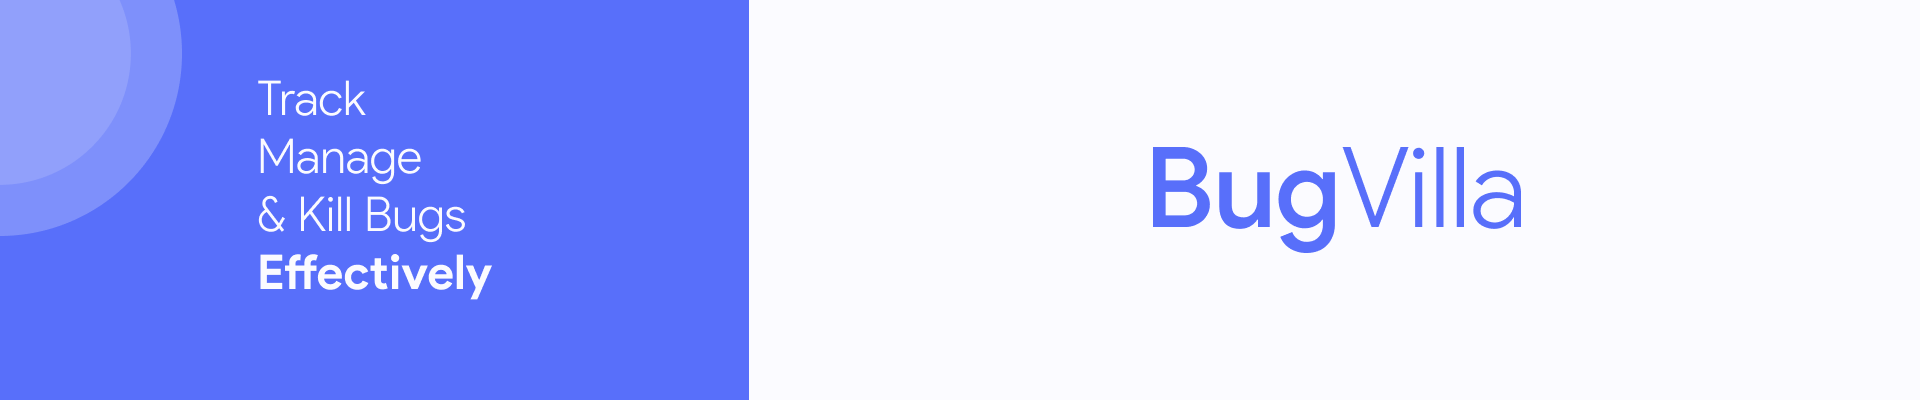
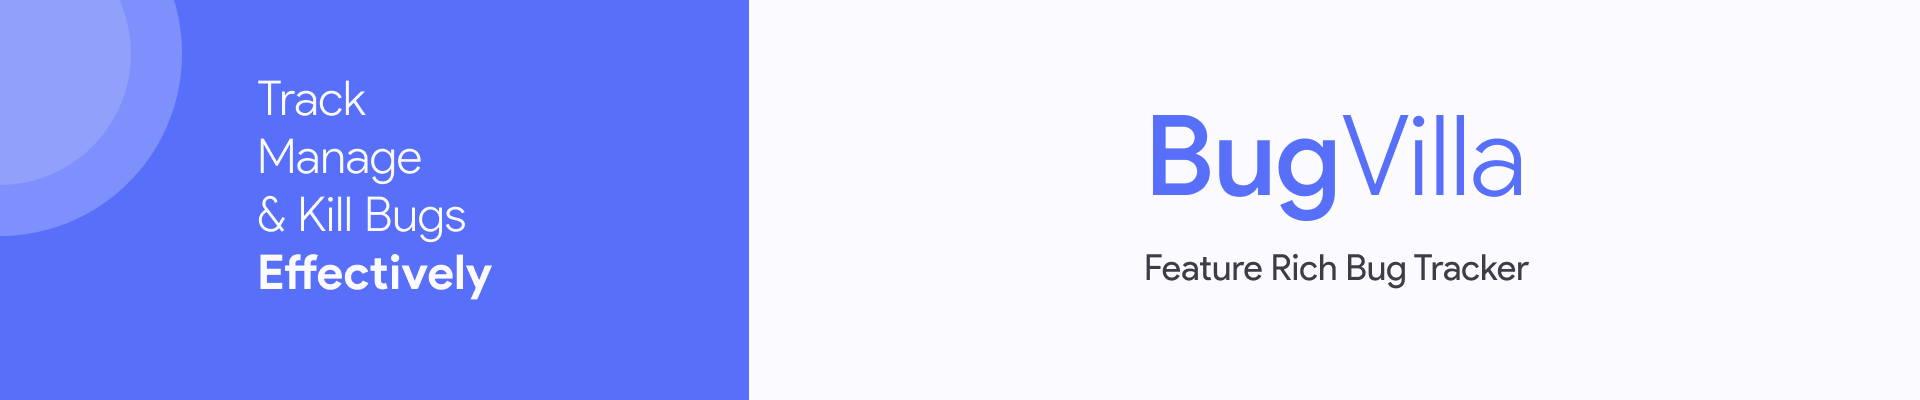
chore: updated docs

Changed region(s): [[0.5938, 0.27, 0.8125, 0.72]]

diff --git a/readme.md b/readme.md
@@ -1,21 +1,29 @@
 <br />
 <p align="center">
   <a href="https://bugvilla.herokuapp.com">
-  <img src="./assets/banner.png" alt="BugVilla Logo" width="100%">
+    <img src="./client/src/assets/images/BugVilla.png" alt="BugVilla Logo" width="200" height="57">
   </a>
 
-  <h3 align="center">Feature Rich Bug Tracker</h3>
+  <h3 align="center">Track, Manage & Kill Bugs Effectively</h3>
+
+  <p align="center">
+    <img alt="GitHub" src="https://img.shields.io/github/license/anuraghazra/BugVilla" />
+    <img alt="Travis (.com)" src="https://img.shields.io/travis/com/anuraghazra/BugVilla" />
+    <img alt="Twitter Follow" src="https://img.shields.io/twitter/follow/anuraghazru?style=social" />
+  </p>
 
   <p align="center">
     <a href="https://bugvilla.herokuapp.com">View Demo</a>
     ·
-    <a href="https://github.com/othneildrew/Best-README-Template/issues">Report Bug</a>
+    <a href="https://github.com/anuraghazra/BugVilla/issues">Report Bug</a>
     ·
-    <a href="https://github.com/othneildrew/Best-README-Template/issues">Request Feature</a>
+    <a href="https://github.com/anuraghazra/BugVilla/issues">Request Feature</a>
   </p>
 </p>
 
-## Features
+<p align="center">Universal bug tracker for everyone! BugVilla allows team members to collaborate, discuss and kill bugs effectively.</p>
+
+## ✨ Features
 
 - Issue discussions
 - Comment Reactions
@@ -32,3 +40,92 @@
 | -------- | -------------------------------------------------------------------------------------------------- | ------------------------------------------------------------------------------------------------- | ------------------------------------------------------------------------------------------------ | ---------------------------------------------------------------------------------------------------------------- | --------------------------------------------------------------------------------------------------- |
 | FrontEnd | <p align="center"><img src="./assets/reactjs_logo.png" width="100" height="100"> <br />Reactjs</p> | <p align="center"><img src="./assets/ts_logo.png" width="100" height="100"> <br />Typescript</p>  | <p align="center"><img src="./assets/redux_logo.png" width="100" height="100"> <br />Redux</p>   | <p align="center"><img src="./assets/styledcompo_logo.png" width="100" height="100"> <br />Styled Components</p> | <p align="center"><img src="./assets/cy_logo.png" width="100" height="100"> <br />Cypress</p>       |
 | BackEnd  | <p align="center"><img src="./assets/nodejs_logo.png" width="100" height="100"> <br />Nodejs</p>   | <p align="center"><img src="./assets/mongo_logo2.png" width="100" height="100"> <br />MongoDB</p> | <p align="center"><img src="./assets/heroku_logo.png" width="100" height="100"> <br />Heroku</p> | <p align="center"><img src="./assets/express_logo.png" width="100" height="100"> <br />Express</p>               | <p align="center"><img src="./assets/socket_logo.png" width="100" height="100"> <br />Socket.io</p> |
+
+
+## :rocket: Quick start
+
+Start developing locally.
+
+### Step 1: Clone the repo
+Fork the repository. then clone the repo locally by doing -
+
+```sh
+git clone https://github.com/anuraghazra/BugVilla.git
+```
+
+### Step 2: Install Dependencies
+cd into the directory
+
+```sh
+cd BugVilla
+```
+
+In the root folder do npm install.
+```sh
+npm install
+# also in client
+cd client & npm install
+```
+
+### Step 3: Setup .env
+To run the server you will also need to provide the `.env` variables
+
+- create a new file .env in the root
+- open [.env.EXAMPLE](./.env.EXAMPLE)
+- copy the contents and paste it to the .env with valid keys
+
+#### And you are good to go
+```sh
+npm run develop
+```
+
+
+
+## :open_file_folder: What's inside?
+
+A quick look at the folder structure of this project.
+    
+    .
+    ├── client
+    │   │
+    │   ├───@bug-ui
+    │   ├───assets
+    │   ├───components
+    │   ├───hooks
+    │   ├───pages
+    │   ├───store
+    │   ├───styles
+    │   ├───utils
+    │   └───__tests__
+    └── server
+        │
+        ├───controllers
+        ├───middleware
+        ├───models
+        ├───routes
+        ├───tests
+        └───utils
+      
+## :v: Contributing
+
+After cloning & setting up the local project you can push the changes to your github fork and make a pull request.
+
+> You can also run the tests locally to see if everything works fine with
+
+### Running tests
+```bash
+npm run test
+npm run cy:open
+```
+
+### Pushing the changes
+
+```bash
+git add .
+git commit -m "feat: added new stuff"
+git push YOUR_REPO_URL develop
+```
+
+------
+
+Made with :heart: and Gatsbyjs
